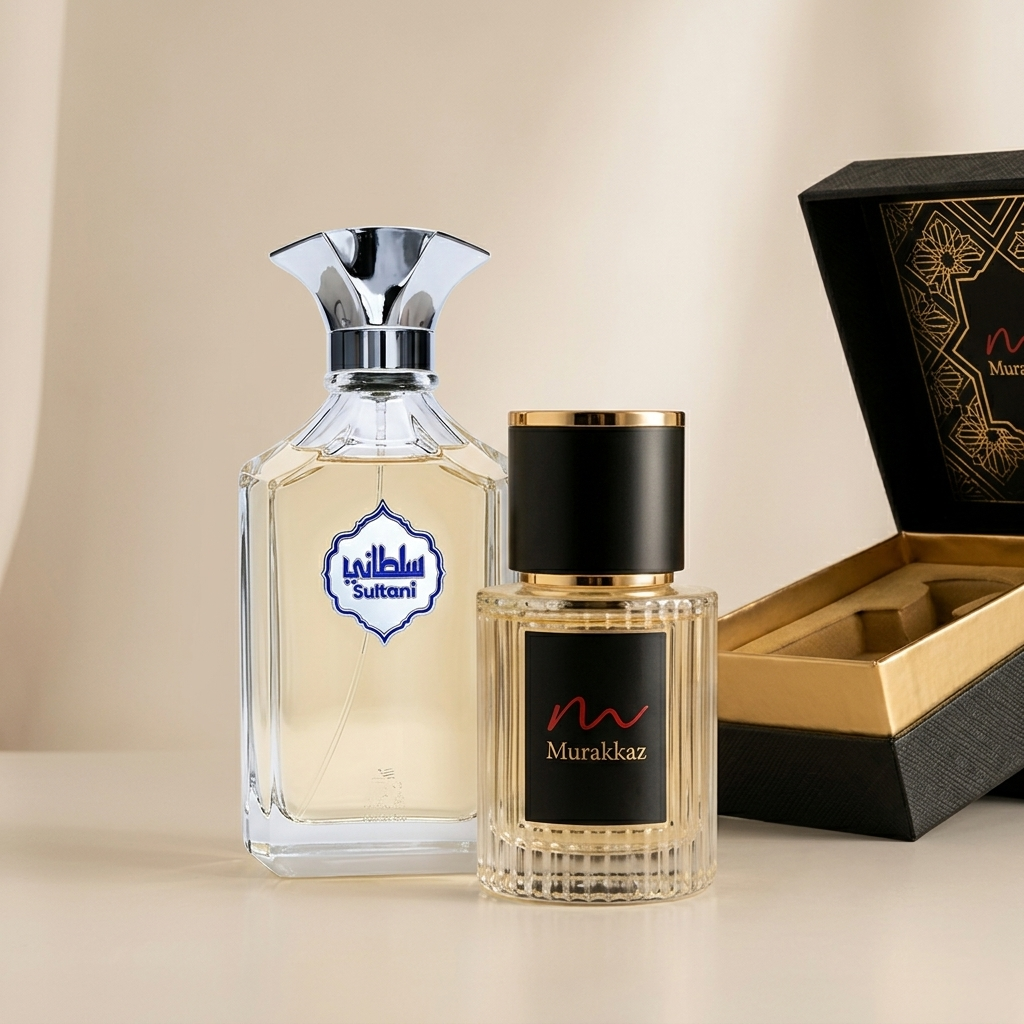
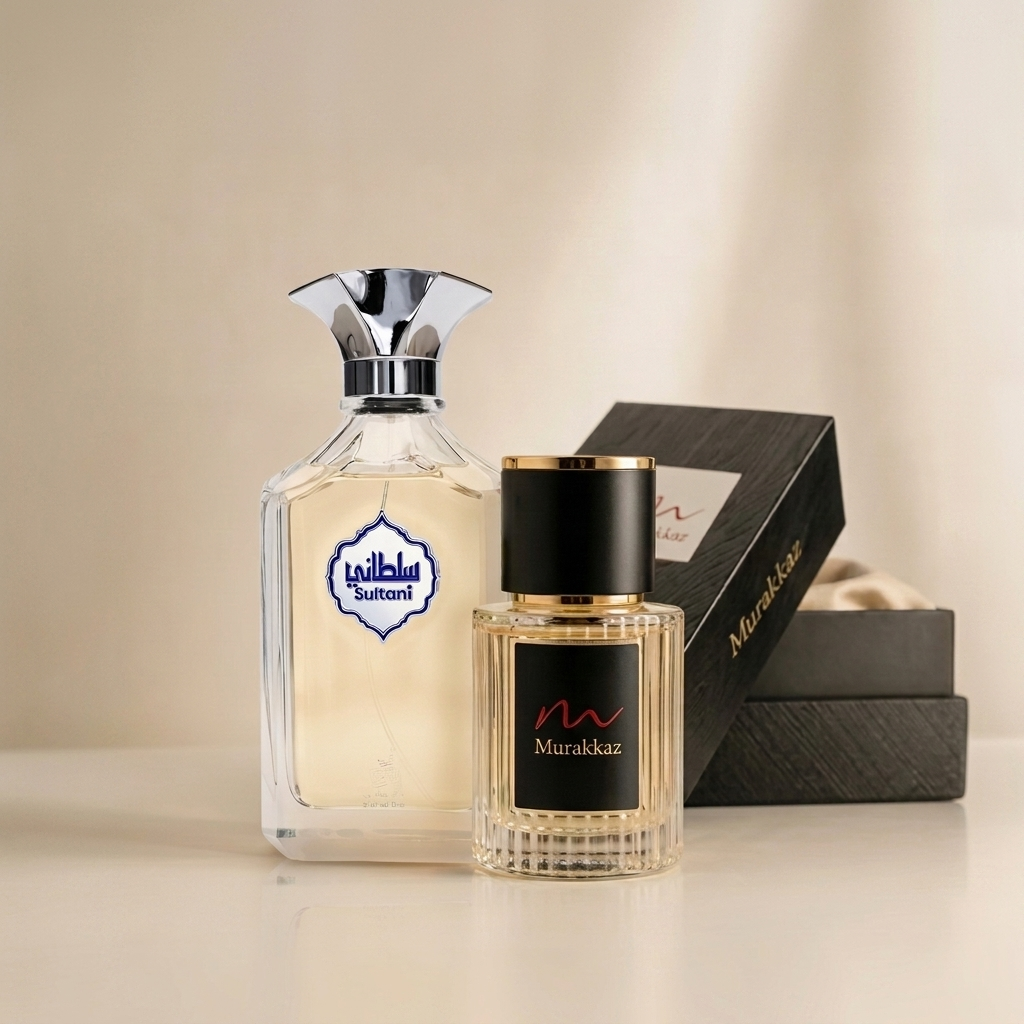
fix(catalog): update authentic Sultani v8 matching exact reference studio box structure and bottle

diff --git a/App/src/app/data/products.ts b/App/src/app/data/products.ts
@@ -212,7 +212,7 @@ export const luxuryProducts: Product[] = [
     "priceVal": 300,
     "originalPriceVal": 400,
     "volume": "6ml - 50ml",
-    "image": "/images/products/sultani_v6.jpg",
+    "image": "/images/products/sultani_v8.jpg",
     "family": "ORIENTAL",
     "gender": "MEN",
     "occasion": "Executive & Formal",
